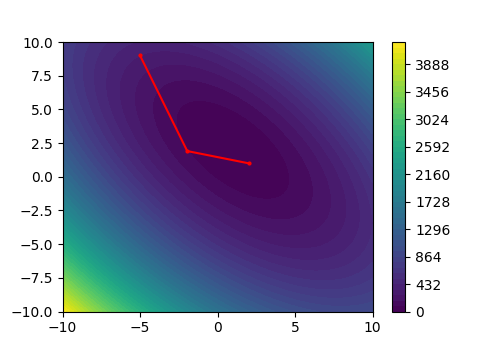
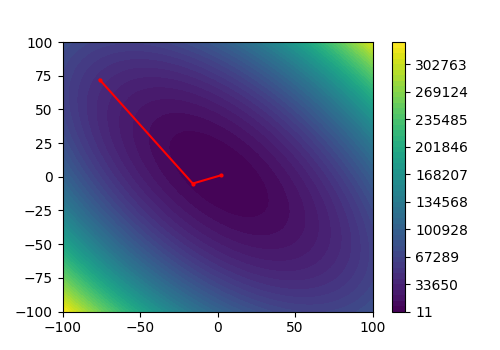
multivariate function

diff --git a/multivariate_optimization/non_smooth_function/Powells.py b/multivariate_optimization/non_smooth_function/Powells.py
@@ -1,5 +1,5 @@
 import sys
-sys.path.append('C:/Users/user/Desktop/Numerical_Optimization')
+sys.path.append('/Users/taehyeonkim/Dropbox/2023/Fall/Numerical Optimization/Numerical_Optimization')
 
 from univariate_optimization.comparison_optimization_techniques.golden_section import golden_section_search
 from univariate_optimization.comparison_optimization_techniques.seeking_bound import seeking_bound
@@ -7,7 +7,7 @@ import numpy as np
 import math
 
 def get_function(f, p, u):
-    new_f = lambda r: f(p[0] + r*u[0], p[1] + r*u[1])
+    new_f = lambda r: f(p[0]+r*u[0], p[1]+r*u[1])
 
     return new_f
 
@@ -25,18 +25,18 @@ def check_consecutive_estimates(f, x_k, x_k_1, threshold):
 
 def Powells(f, df, initial, dim=2, max_iter=1000, threshold=1e-15):
     i = 0
-    x = [initial]
-    u = np.identity(dim).tolist()
+    x = [initial] #all vectors
+    u = np.identity(dim).tolist() #direction
     
     while(1):
         p = [x[i]]
         for k in range(0,dim):
             new_f = get_function(f, p[k], u[k])
             a, b = seeking_bound(new_f, 0.0, 0.1)
-            results = golden_section_search(new_f, a, b, max_iter=1000)
-            x1, x2 = results[0][-1], results[1][-1]
-            f1, f2 = new_f(x1), new_f(x2)
-            r = x1 if f1 < f2 else x2
+            results = golden_section_search(new_f, a, b, max_iter=100)
+            r1, r2 = results[0][-1], results[1][-1]
+            f1, f2 = new_f(r1), new_f(r2)
+            r = r1 if f1 < f2 else r2
             p.append((p[k][0]+r*u[k][0], p[k][1]+r*u[k][1]))
 
         i += 1
@@ -44,15 +44,15 @@ def Powells(f, df, initial, dim=2, max_iter=1000, threshold=1e-15):
         for j in range(0, dim-1):
             u[j] = u[j+1]
 
-        u[dim-1] = [p[dim][0] - p[0][0], p[dim][1] - p[0][1]]
+        u[-1] = [p[-1][0] - p[0][0], p[-1][1] - p[0][1]]
 
-        new_f = get_function(f, p[0], u[dim-1])
+        new_f = get_function(f, p[0], u[-1])
         a, b = seeking_bound(new_f, 0.0, 0.1)
-        results = golden_section_search(new_f, a,b, max_iter=1000)
-        x1, x2 = results[0][-1], results[1][-1]
-        f1, f2 = new_f(x1), new_f(x2)
-        r = x1 if f1 < f2 else x2
-        x.append([p[0][0] + r*u[dim-1][0], p[0][1] + r*u[dim-1][1]])
+        results = golden_section_search(new_f, a,b, max_iter=100)
+        r1, r2 = results[0][-1], results[1][-1]
+        f1, f2 = new_f(r1), new_f(r2)
+        r = r1 if f1 < f2 else r2
+        x.append((p[0][0]+r*u[-1][0], p[0][1]+r*u[-1][1]))
         
         df_x_k = df(x[-1][0], x[-1][1])
         pk = p[-1]

diff --git a/multivariate_optimization/visualization.py b/multivariate_optimization/visualization.py
@@ -3,9 +3,17 @@ import numpy as np
 from mpl_toolkits.mplot3d import Axes3D
 
 def visualization(f, results, problem='1', type='nelder_mead', r=10):
-    xn = 50
-    x = np.linspace(-r, r, 50)
-    y = np.linspace(-r, r, 50)
+    point_x = []
+    point_y = []
+    for result in results:
+        point_x.append(result[0])
+        point_y.append(result[1])
+    
+    r_x = max(point_x) if max(point_x) > r else r
+    r_y = max(point_y) if max(point_y) > r else r
+        
+    x = np.linspace(-r_x, r_x, 50)
+    y = np.linspace(-r_y, r_y, 50)
 
     z = np.zeros((len(x), len(y)))
     
@@ -18,11 +26,7 @@ def visualization(f, results, problem='1', type='nelder_mead', r=10):
     plt.figure(figsize=(5, 3.5))
     cp = plt.contourf(xx, yy, z, levels = np.linspace(z.reshape(-1, 1).min(), z.reshape(-1, 1).max(), 50))
     plt.colorbar(cp)
-    point_x = []
-    point_y = []
-    for result in results:
-        point_x.append(result[0])
-        point_y.append(result[1])
+    
     plt.plot(point_x, point_y, marker='o', markersize=2, color='r')
     plt.savefig('multivariate_optimization/results/' + type + 'problem' + problem + '.png')
     plt.cla()

diff --git a/multivariate_optimization/test.py b/multivariate_optimization/test.py
@@ -41,10 +41,10 @@ if __name__ == "__main__":
 
         initial_point = []
         for i in range(dim + 1):
-            initial_point.append((random.randrange(5, 10)*(-1 if random.random() > 0.5 else 1), random.randrange(5, 10)*(-1 if random.random() > 0.5 else 1)))
+            initial_point.append((random.randrange(50, 100)*(-1 if random.random() > 0.5 else 1), random.randrange(50, 100)*(-1 if random.random() > 0.5 else 1)))
         results = Nelder_Mead(f=f, initial=initial_point, dim=dim)
-        visualization(f=f, results=results, problem=str(number+1), type='nelder_mead')
+        visualization(f=f, results=results, problem=str(number+1), type='nelder_mead', r=100)
         results = Powells(f=f, df=df, initial=(initial_point[0][0], initial_point[0][1]), dim=dim)
-        visualization(f=f, results=results, problem=str(number+1), type='powells')
+        visualization(f=f, results=results, problem=str(number+1), type='powells', r=100)
 
     n=1
